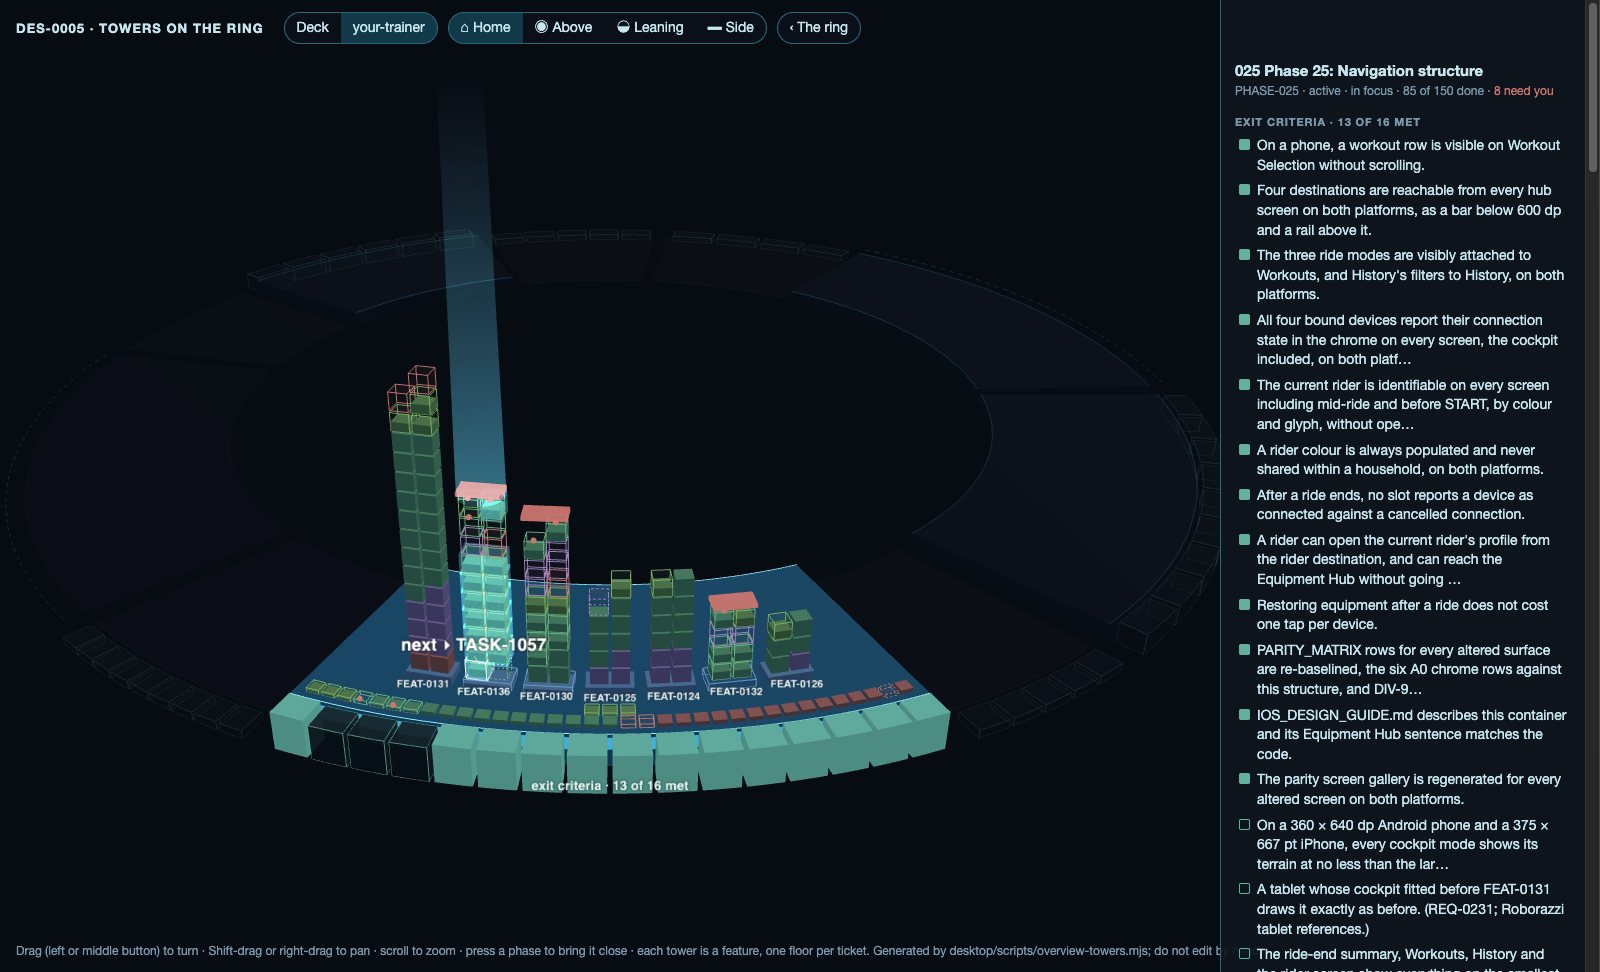
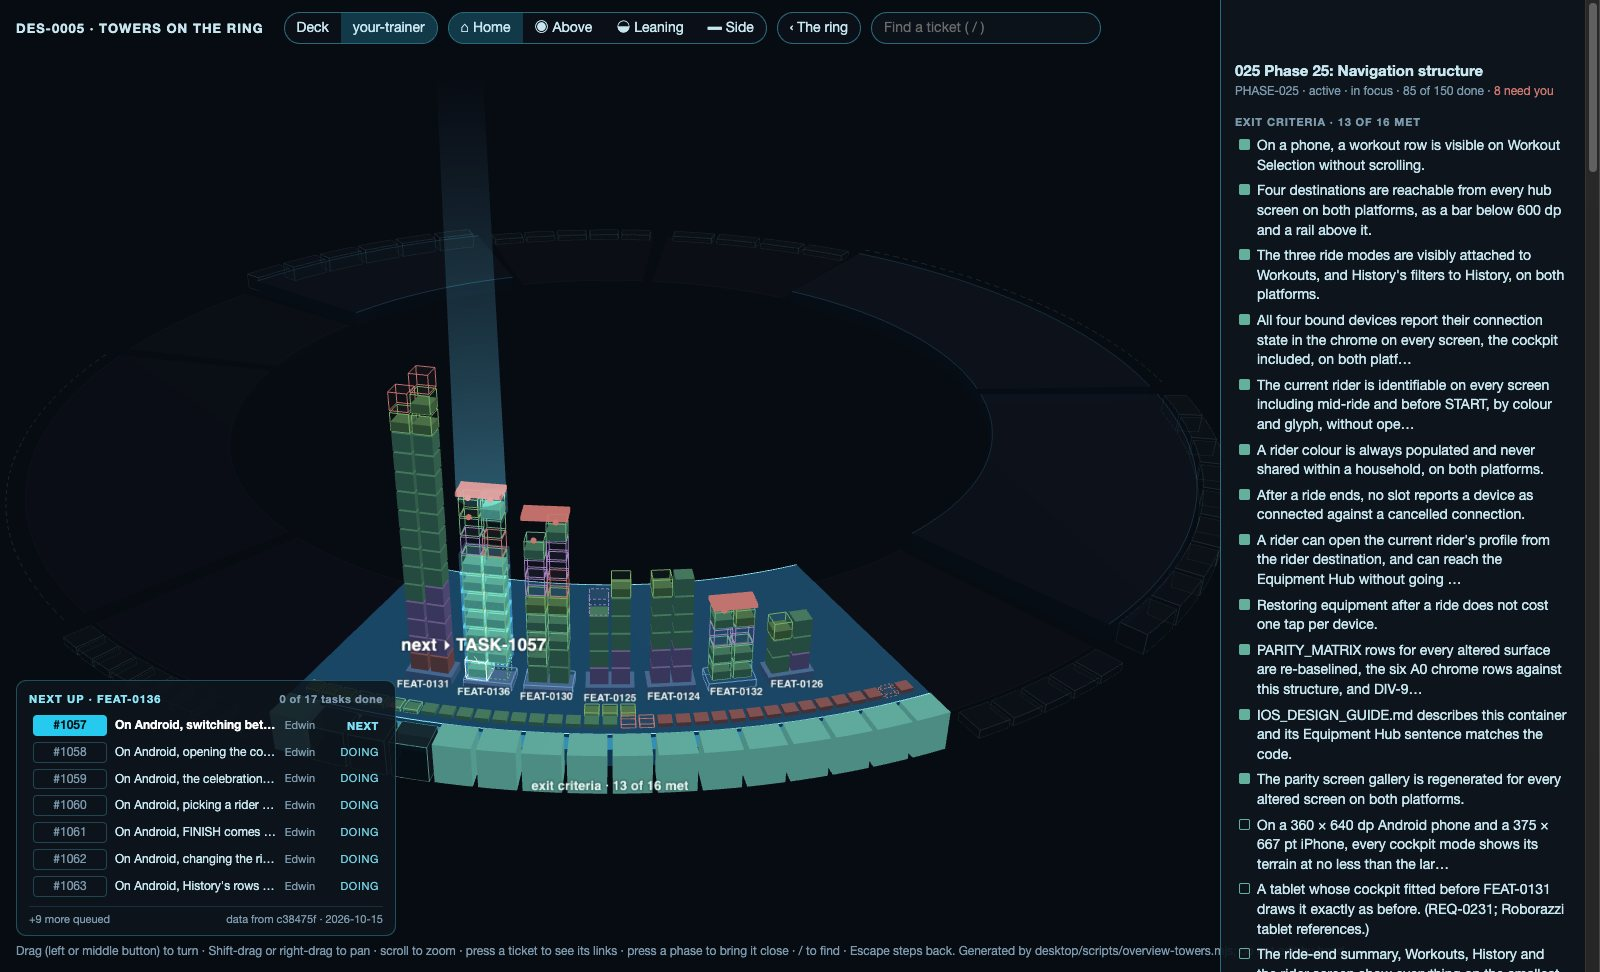
DES-0005 shows the links, search and next-up board drawn on the towers page, with pictures and what building them would cost (TASK-0176)

diff --git a/docs/designs/DES-0005-The-Overview-Is-Drawn-Not-Written.md b/docs/designs/DES-0005-The-Overview-Is-Drawn-Not-Written.md
@@ -7,7 +7,7 @@ status: proposed
 phase: "[[PHASE-0005-Overview]]"
 owner: user:edwin
 created: 2026-10-14
-updated: 2026-10-16
+updated: 2026-10-21
 source: ["Edwin 2026-10-14: 'I still don't like the glass solution, it is too text heavy and does not look cool or minority report like. Please make sure that each of these screens identified show dialogs/views which are based more on diagrams and images to show case progress and status and less on text! Also introduce the circular view we defined previously as an overview view. And think about what is needed to handle the design, the acceptance test and the tickets acceptance flows. (the goal is to define a goal which can be worked on with both openai astra and claude opus!)'"]
 asset: "DES-0005-the-overview.html"
 implements: ["[[FEAT-0025-Every-Overview-Screen-Is-Drawn-Before-It-Is-Built]]", "[[FEAT-0027-Deck-Opens-On-The-Wheel-Of-Phases]]", "[[FEAT-0028-A-Phase-And-A-Ticket-Open-As-Pictures]]", "[[FEAT-0029-Designs-Tests-And-Tickets-Are-Accepted-From-Their-Evidence]]", "[[PHASE-0005-Overview]]"]
@@ -16,7 +16,7 @@ superseded_by: ""
 reviewed_by: ""
 review_date: ""
 review_verdict: ""
-related: ["[[DES-0004-The-Phase-Overview]]", "[[DES-0002-The-Glass-Cockpit]]", "[[DES-0003-Collections-And-Documents-On-Glass]]", "[[REFERENCE-OVERVIEW-GOAL-TWO-AGENT-BRIEF]]"]
+related: ["[[REFERENCE-RUBRIC-AGENTIC-OS-REVIEW]]", "[[DES-0004-The-Phase-Overview]]", "[[DES-0002-The-Glass-Cockpit]]", "[[DES-0003-Collections-And-Documents-On-Glass]]", "[[REFERENCE-OVERVIEW-GOAL-TWO-AGENT-BRIEF]]"]
 tags: [design, overview, glass, acceptance]
 ---
 
@@ -223,6 +223,38 @@ The pictures from above are [towers-deck-above.jpg](__attachments__/DES-0005/tow
 - Most issues belong to no feature, so they lie flat; so do 33 of Deck's tests and 32 of your-trainer's that no feature or task names.
 - Grouping by feature, with the ring made of features, is not drawn; Edwin chose phase.
 
+## Links, search and next up on the towers, three ideas from Rubric
+
+**The towers page now draws three ways of showing the data taken from Rubric, a dashboard for AI agents: a selected ticket's links as curves, search that lights the towers, and a next-up board** ([[TASK-0176]], 2026-10-21). Edwin asked for Rubric to be reviewed; the review and all seven of its suggestions are in [[REFERENCE-RUBRIC-AGENTIC-OS-REVIEW]]. He agreed with all seven and asked for these three first. They are on the towers page only; Deck is not changed.
+
+- **Pressing a ticket selects it where it stands.** Curves rise from it to every ticket it links to or that links to it, each in the linked ticket's type colour, also into other phases, the shelf and the core. A light runs along each curve, from the ticket to the one it links to. Everything else fades, and each linked ticket gets an outline and its id. The links are the ones Deck's overview model already records for each note, read both ways round.
+- **A card for the selected ticket stands where the legend was.** It gives the ticket's type mark, id and title, its status in the cockpit's words, its feature, phase, owner and last update, and the red line saying what to do when it needs you. It counts the linked tickets by type. Its buttons fly the camera to frame the ticket and its links, bring its phase close, or clear the selection.
+- **The right pane shows the ticket's text**: the first paragraph of its note, then its linked tickets as cockpit rows grouped by type. Pressing a row selects that ticket. With a phase brought close, the pane starts with a button back to the phase's list. This is Edwin's request of 2026-10-15 that a selected item show its id, title and text and the ids and titles of the items around it.
+- **Search lights the towers.** The box in the header (`/` puts the cursor in it) matches ids and title words. Every other ticket fades, the matches glow where they stand, and the box says how many matched. Up to twelve are listed under it, what needs you first; the arrow keys and Enter, or a press, choose one, which selects it and flies the camera to it.
+- **The next-up board, bottom left, is the focus feature's tasks in the style of Rubric's routines.** The last two finished are greyed and struck through with their dates, the next ticket is lit and marked NEXT, and the rest follow, those in progress first. Each row names who has it, from the note's `owner:`. The board counts the feature's tasks done, and its foot names the commit the data was read from. Pressing a row selects that ticket.
+- **Escape steps back one thing at a time**: the search, then the selection, then the phase, then home.
+
+![Deck, TASK-0156 selected: its links as curves](__attachments__/DES-0005/towers-deck-linked.jpg)
+
+Deck with TASK-0156 selected, the ticket of the focus phase whose links reach the most places. Thirteen curves run from it: to four features (its own FEAT-0027, FEAT-0028, FEAT-0029, and FEAT-0016 in Glass), four tasks, four tests, and DES-0005 in the core. The card says it waits on TASK-0155; the pane gives its first paragraph and its links by type. The next-up board shows FEAT-0028's two last finished tasks, TASK-0154 next, and TASK-0158 queued.
+
+![Deck, a search for "wheel" lit on the ring](__attachments__/DES-0005/towers-deck-search.jpg)
+
+A search for "wheel" on Deck: 16 tickets glow where they stand: 11 in Overview, 4 in Glass and 1 in the core; the first twelve are listed under the box.
+
+![your-trainer, FEAT-0124 selected: its links as curves](__attachments__/DES-0005/towers-your-trainer-linked.jpg)
+
+your-trainer with FEAT-0124 selected, a finished navigation feature: 40 curves: to its seven tasks, five tests and four requirements, to three features, two designs and two decisions, and to seventeen issues, eight in its own phase and the rest in the core and three other phases. The next-up board shows FEAT-0136, none of its seventeen tasks done, TASK-1057 next and six in progress, all Edwin's.
+
+![your-trainer, a search for "heart rate" lit on the ring](__attachments__/DES-0005/towers-your-trainer-search.jpg)
+
+A search for "heart rate" on your-trainer: 32 matches, in four phases of the ring, four finished phases on the shelf, and the core.
+
+**What building them into Deck would cost.** Deck's overview model already carries each ticket's links (for the ticket screen, S3) and its feature (FEAT-0026), so the curves and the card need no new data. The pane's paragraph, and the board's owners and dates, would need each note's first paragraph, `owner:` and `updated:` added to the model; on this page they are read from the notes at the fixture's commit. In the 3D view the curves, the fading and the glow are a few hundred lines of three.js beside what is there. The flat plan Deck draws when WebGL cannot start would need its own drawing of the links. Each would need the screen checks extended, and the window run TST-0093 repeated. **What it leaves open:**
+- A ticket with more than 60 links has only its first 60 drawn; the card says so. On your-trainer a few phase-level features come close.
+- Search matches ids and titles, not the notes' text.
+- The board shows the focus feature only. When the snapshot names no feature in focus, it says so and is empty.
+
 ## Answers proposed to DES-0004's open questions
 
 1. **A backlog phase** is marked with `kind: backlog` in its note. When the note says nothing, an id ending in 999 is read as backlog, so your-trainer's PHASE-999 works today.
@@ -234,6 +266,7 @@ The pictures from above are [towers-deck-above.jpg](__attachments__/DES-0005/tow
 
 - Whether to build Level 2, the 3D wheel where height is time, into Deck, after looking at its page. It would replace or sit beside the constellation.
 - ~~Whether to build the towers on the ring into Deck.~~ Decided 2026-10-16: "I like the design page, please implement as suggested", with a different design for the exit criteria (the collar) and the red caps pressable. Built in [[TASK-0164]] to [[TASK-0168]]; three.js is [[RISK-0010]].
+- Whether to build the links as curves, search on the ring, and the next-up board into Deck, after trying them on the towers page ([[TASK-0176]]). The other four of Rubric's ideas are drawn next on the same page ([[TASK-0177]]).
 
 - Accept or decline this design.
 - Whether S5's fanned plates should be drawn as outlines only: behind a busy plate they compete with it.

diff --git a/docs/features/overview-design/plan/tasks/TASK-0176-Links-Search-And-Next-Up-Drawn-On-The-Towers-Page.md b/docs/features/overview-design/plan/tasks/TASK-0176-Links-Search-And-Next-Up-Drawn-On-The-Towers-Page.md
@@ -32,13 +32,21 @@ tests: ["[[TST-0094-DES-0005s-Plates-Are-Drawn-For-Every-Screen-With-Every-Mark]
 
 ## Definition of Done
 
-- [ ] `desktop/scripts/overview-towers.mjs` adds to each workspace on the page: each ticket's links in both directions, and each note's first paragraph, owner and last update, read from the notes at the fixture's commit as the feature of each ticket already is. Nothing is entered by hand.
-- [ ] `desktop/scripts/overview-towers-notes.mjs` reads the first paragraph, `owner:` and `updated:`, and TST-0094's suite checks each on small notes of its own.
-- [ ] The page draws the curves, the card, the text pane, the search and the next-up board as described above, with no errors in a hidden window.
-- [ ] TST-0094 checks that the links on the page agree with the fixture in both directions, and that the next-up board holds the focus feature's tasks.
-- [ ] Pictures under `docs/designs/__attachments__/DES-0005/`: a ticket selected with its curves, a search lit, and the next-up board, on each workspace.
-- [ ] DES-0005 shows the pictures under a heading of their own, says what building each into Deck would cost, and asks Edwin whether to build them.
+- [x] `desktop/scripts/overview-towers.mjs` adds to each workspace on the page: each ticket's links in both directions, and each note's first paragraph, owner and last update, read from the notes at the fixture's commit as the feature of each ticket already is. Nothing is entered by hand.
+- [x] `desktop/scripts/overview-towers-notes.mjs` reads the first paragraph, `owner:` and `updated:`, and TST-0094's suite checks each on small notes of its own.
+- [x] The page draws the curves, the card, the text pane, the search and the next-up board as described above, with no errors in a hidden window.
+- [x] TST-0094 checks that the links on the page agree with the fixture in both directions, and that the next-up board holds the focus feature's tasks.
+- [x] Pictures under `docs/designs/__attachments__/DES-0005/`: a ticket selected with its curves, a search lit, and the next-up board, on each workspace.
+- [x] DES-0005 shows the pictures under a heading of their own, says what building each into Deck would cost, and asks Edwin whether to build them.
 - [ ] `cd desktop && npm test` passes. Two independent Claude reviewers review it.
+
+## Verification
+
+`desktop/scripts/overview-towers.mjs` writes the page with each ticket's links both ways round (from the fixture's `links`), each note's first paragraph, owner and last update (read by `overview-towers-notes.mjs` from the notes at the fixture's commit, past headings, quoted callouts, comments, pictures and code), and the next-up board. Deck: FEAT-0028, 5 of 7 tasks done, TASK-0147 and TASK-0148 done, TASK-0154 next, TASK-0158 queued. your-trainer: FEAT-0136, 0 of 17 done, TASK-1057 next, six in progress, nine more queued. The page grew from 554 KB to 1.66 MB; most of it is your-trainer's 2,743 paragraphs, each cut at 280 characters.
+
+TST-0094's suite checks that every link of the fixture is on the page both ways and no other, that nearly every note has a paragraph, that dates are days, that the board is the focus feature's tasks with the next one lit and done ones closed, and the paragraph reader on small notes of its own. Each new guard was broken once to see it fail: links one way only, a done task shown as queued, a callout read as prose. `cd desktop && npm test`: 793 tests, 793 passed.
+
+In a hidden window (`desktop/scripts/towers-capture.cjs`, no page errors) the pictures were taken, and the page was driven with real presses and keys: pressing a ticket on the ring selects it with its card and pane; a row of the pane selects that ticket; the card brings its phase close; the pane goes back to the phase's list; Escape clears the selection, then closes the phase; `/` and typing light 16 matches for "wheel", arrow and Enter choose one, which is selected; Escape in the box empties it; a row of the board selects its ticket; a red cap still brings its phase close with the first ticket that needs you selected and the list kept. One defect found that way was fixed: a selection left the cursor in the search box, so Escape only left the box.
 
 ## Acceptance checks reopened
 
